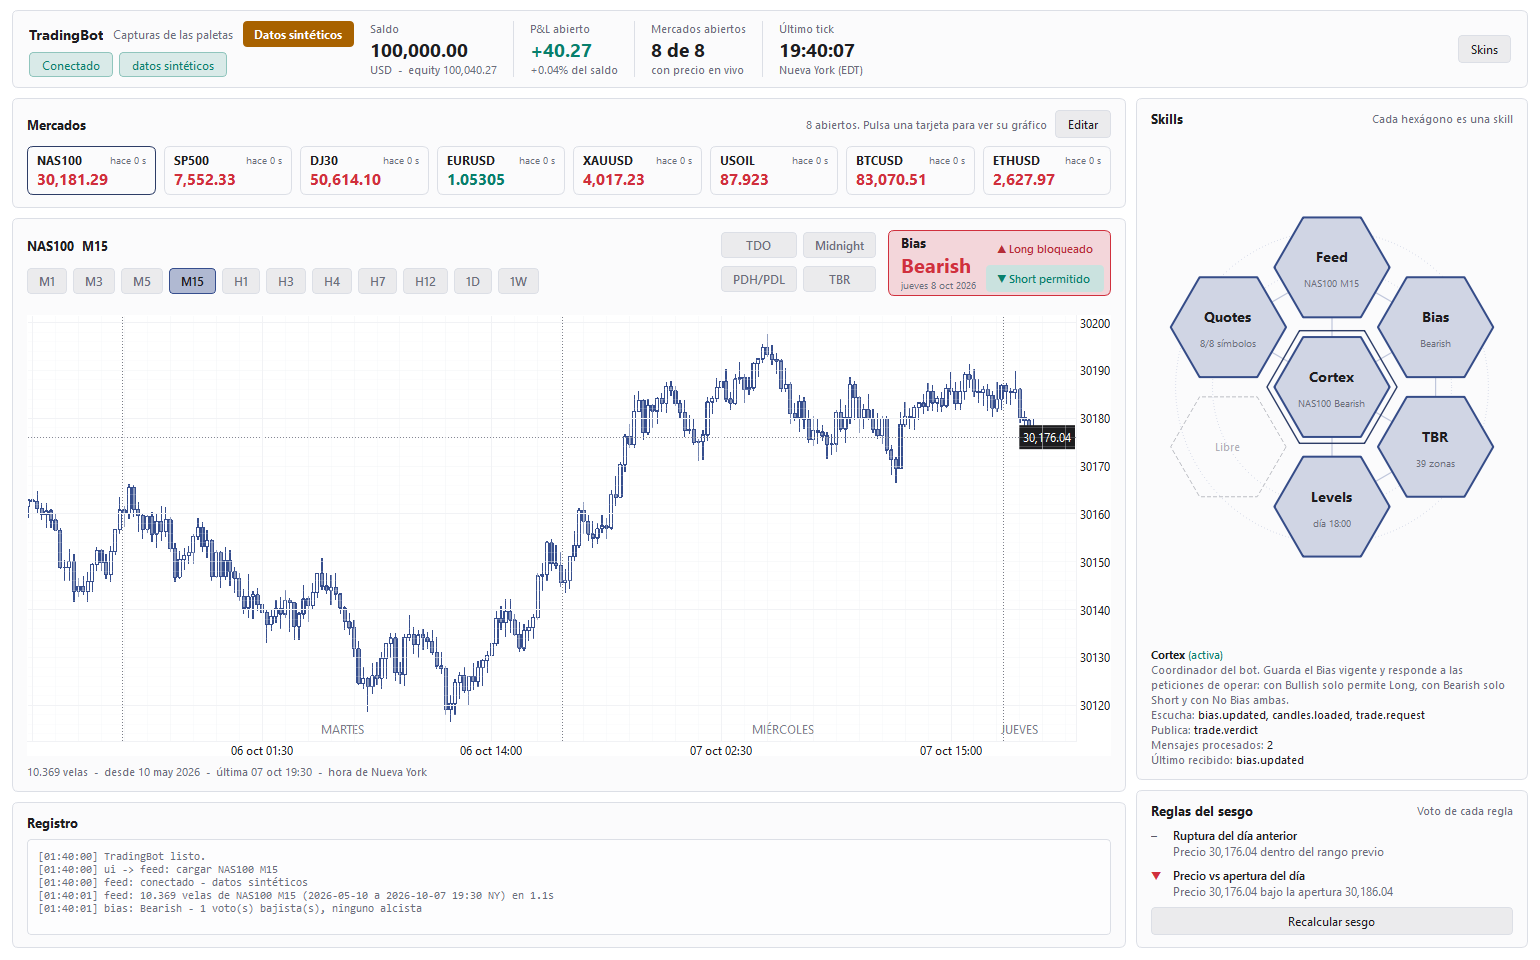
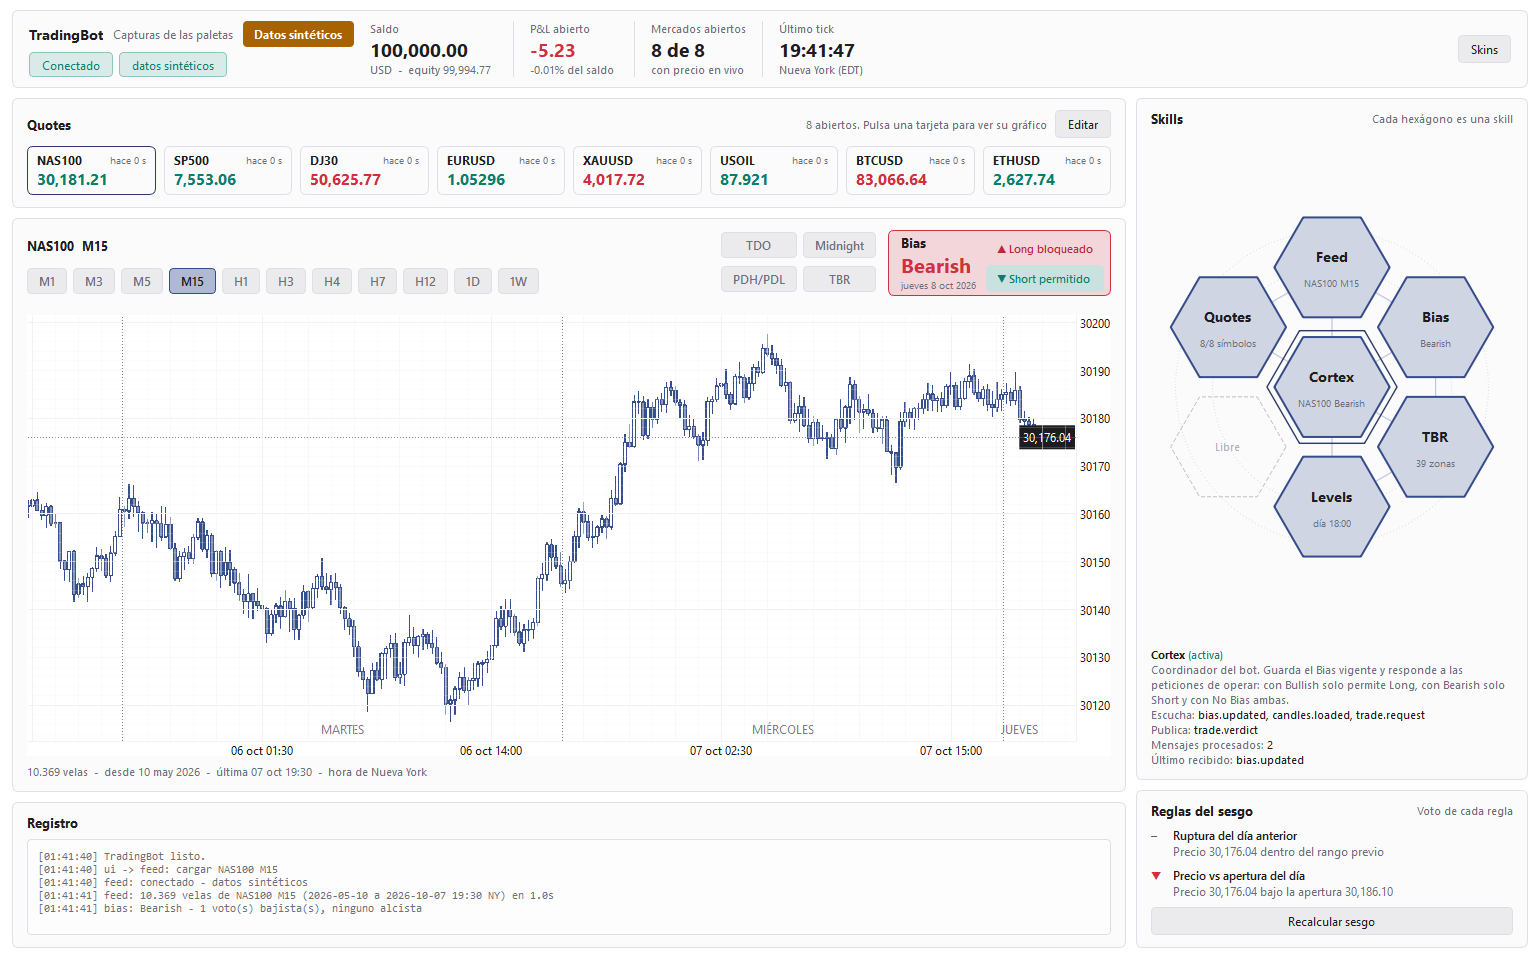
El panel Mercados pasa a llamarse Quotes, como su skill
- Título del panel "Quotes" (misma tipografía que Skills y Bias) y mensajes
  del registro, ayuda de errores y diálogo de edición al día.
- README, config.toml, comentario de tradingbot.env y capturas actualizados.

diff --git a/tradingbot/ui/main_window.py b/tradingbot/ui/main_window.py
@@ -101,7 +101,7 @@ class MainWindow(QMainWindow):
         self.log("TradingBot listo.")
         wanted = app_cfg["app"]["symbol"]
         if self.watchlist and self._match_symbol(wanted) is None:
-            self.log(f"'{wanted}' no está en el panel Mercados: se usa {self.current_symbol}.")
+            self.log(f"'{wanted}' no está en el panel Quotes: se usa {self.current_symbol}.")
 
     # -- construcción de la interfaz ---------------------------------------------------------
     def _build_header(self, subtitle: str, demo: bool) -> QFrame:
@@ -162,7 +162,7 @@ class MainWindow(QMainWindow):
         left = QVBoxLayout()
         left.setSpacing(10)
 
-        self.markets_panel = Panel("Mercados", "Pulsa una tarjeta para ver su gráfico")
+        self.markets_panel = Panel("Quotes", "Pulsa una tarjeta para ver su gráfico")   # como su skill en el hexágono
         self.edit_markets_btn = QPushButton("Editar")
         self.edit_markets_btn.setToolTip("Elegir qué mercados se muestran")
         self.markets_panel.add_header_widget(self.edit_markets_btn)
@@ -293,7 +293,7 @@ class MainWindow(QMainWindow):
 
     # -- utilidades -----------------------------------------------------------------------------
     def _sync_top_heights(self) -> None:
-        """Mercados, con la altura justa para sus tarjetas: el resto va al gráfico."""
+        """Quotes, con la altura justa para sus tarjetas: el resto va al gráfico."""
         self.markets_panel.setFixedHeight(self.markets_panel.sizeHint().height())
 
     def log(self, message: str) -> None:
@@ -342,7 +342,7 @@ class MainWindow(QMainWindow):
             return
         symbol = self.current_symbol
         if not symbol:
-            self.log("No hay mercados en el panel Mercados: añade alguno con el botón Editar.")
+            self.log("No hay mercados en el panel Quotes: añade alguno con el botón Editar.")
             return
         tf = self.current_tf()
         self._set_busy(True, "Conectando…" if not self.connected else f"Cargando {symbol} {display_label(tf)}…")

diff --git a/tradingbot/ui/errors.py b/tradingbot/ui/errors.py
@@ -5,7 +5,7 @@ from __future__ import annotations
 def explain_error(error: str) -> str:
     low = error.lower()
     if "no existe en este broker" in low or "no disponible" in low:
-        return ("Ese nombre no existe tal cual en tu broker. Pulsa «Editar» en Mercados, quita el símbolo y "
+        return ("Ese nombre no existe tal cual en tu broker. Pulsa «Editar» en Quotes, quita el símbolo y "
                 "añade el que aparezca al buscarlo (por ejemplo «nasdaq» o «dow»).")
     if "sin velas" in low:
         return ("El símbolo existe, pero MT5 aún no tiene su historial. Abre ese gráfico en MT5 y desplázate "

diff --git a/tests/test_market_cards.py b/tests/test_market_cards.py
@@ -54,7 +54,7 @@ def test_el_mercado_inicial_es_el_de_config_si_esta_en_el_panel(make_window):
 def test_mercado_inicial_fuera_del_panel_se_sustituye_por_el_primero(make_window):
     win, _ = make_window(["DJ30", "EURUSD"], symbol="GER40")
     assert win.current_symbol == "DJ30"
-    assert "GER40" in win.log_view.toPlainText() and "no está en el panel Mercados" in win.log_view.toPlainText()
+    assert "GER40" in win.log_view.toPlainText() and "no está en el panel Quotes" in win.log_view.toPlainText()
 
 
 def test_pinchar_una_tarjeta_carga_ese_mercado_con_el_timeframe_elegido(make_window):

diff --git a/tradingbot/ui/watchlist_dialog.py b/tradingbot/ui/watchlist_dialog.py
@@ -33,7 +33,7 @@ def filter_symbols(names: list[str], query: str) -> list[str]:
 class WatchlistDialog(QDialog):
     def __init__(self, parent, broker_symbols: list[str], current: list[str]) -> None:
         super().__init__(parent)
-        self.setWindowTitle("Mercados")
+        self.setWindowTitle("Quotes: mercados")
         self.setMinimumSize(640, 460)
         self.broker_symbols = list(broker_symbols)
 

diff --git a/README.md b/README.md
@@ -19,7 +19,7 @@ Pasa el ratón sobre la caja para ver la hora del servidor y el desfase detectad
 fíjalo a mano con `QUOTES_SERVER_UTC_OFFSET` en `tradingbot.env`. El eje de tiempo del gráfico también va en hora de
 Nueva York (hasta medir el desfase, estimada; lo indica la línea bajo el gráfico).
 
-Panel **Mercados**: cotizaciones de solo lectura (se refrescan cada segundo; se cambia con `QUOTES_INTERVAL`). Con el botón **Editar** del panel eliges
+Panel **Quotes** (antes *Mercados*): cotizaciones de solo lectura (se refrescan cada segundo; se cambia con `QUOTES_INTERVAL`). Con el botón **Editar** del panel eliges
 qué mercados se muestran: busca entre los símbolos reales de tu broker (también por nombre común: *dow*, *nasdaq*,
 *oro*, *petróleo*, *bitcoin*...), añade, quita y reordena. Se aplica al instante y se guarda en `settings.local.json`
 (no se sube a git), que tiene prioridad sobre la `watchlist` de `config.toml`. Borrar ese fichero devuelve la lista de `config.toml`.
@@ -122,7 +122,7 @@ en bloques comentados, uno por skill o parte del bot. Cada clave empieza por el 
 | `FEED_TIMEFRAME` | `M15` | Timeframe al arrancar: `M1` `M3` `M5` `M15` `H1` `H3` `H4` `H7` `H12` `1D` `1W` (también vale `15m`, `1h`...). |
 | `FEED_MAX_BARS` | `2000000` | Tope de seguridad de velas a cargar por mercado y timeframe. |
 | **QUOTES** — cotizaciones y cuenta | | |
-| `QUOTES_INTERVAL` | `1` | Segundos entre refrescos del panel Mercados y de las cifras de la cuenta (admite decimales). |
+| `QUOTES_INTERVAL` | `1` | Segundos entre refrescos del panel Quotes y de las cifras de la cuenta (admite decimales). |
 | `QUOTES_SERVER_UTC_OFFSET` | vacío | Desfase del servidor del broker respecto a UTC, en horas. Vacío: se detecta solo con los ticks en vivo. |
 | **BIAS** — sesgo del día | | |
 | `BIAS_RULES` | `prev_day_break, above_below_open` | Reglas activas, separadas por comas. `ninguna`: sin reglas (siempre No Bias). |
